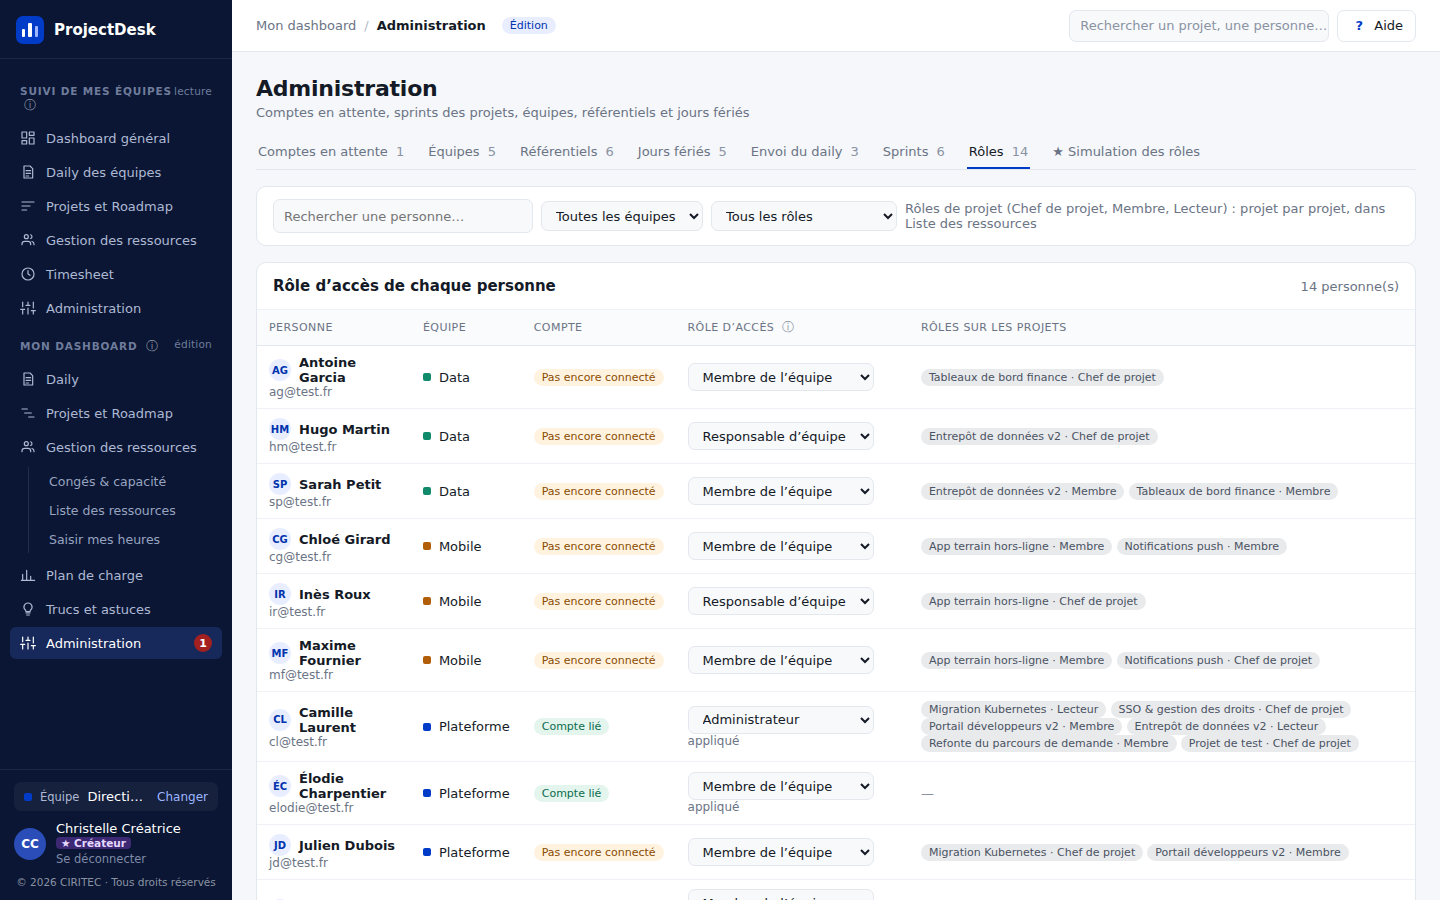
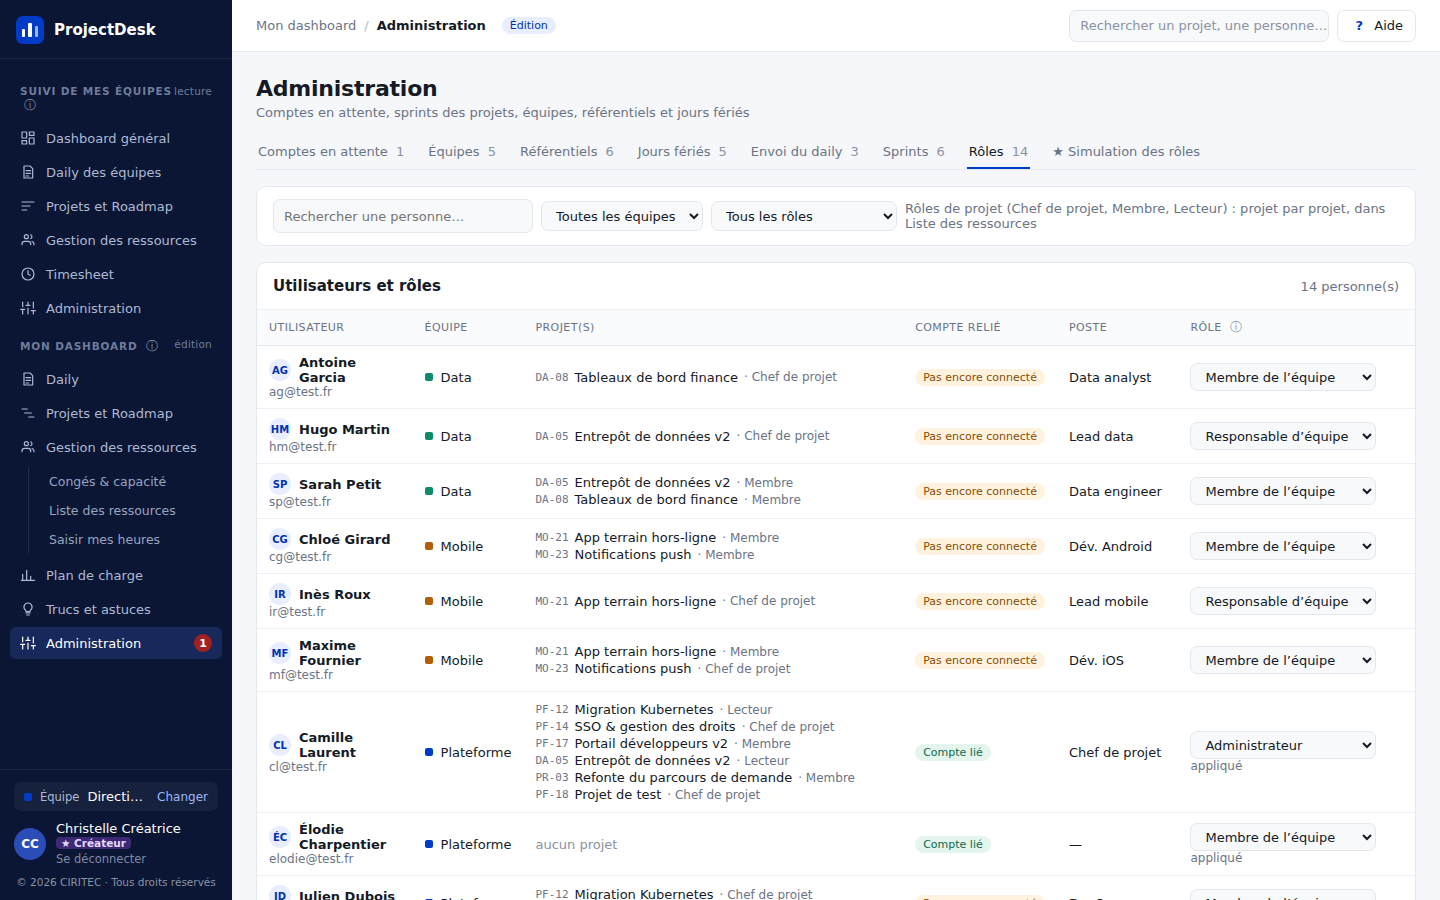
Administration › Rôles : tableau Utilisateurs et rôles (équipe, projets, compte relié, poste, rôle) — DAT 2.05
Claude-Session: https://claude.ai/code/session_0187v8SY8uiT6dnWqjjqJYb6

diff --git a/app/index.html b/app/index.html
@@ -11,7 +11,7 @@
 <link href="https://fonts.googleapis.com/css2?family=IBM+Plex+Sans:wght@400;500;600;700&family=IBM+Plex+Mono:wght@400;500&display=swap" rel="stylesheet">
 <!-- ?v= : version des fichiers (= version du DAT), à changer à chaque livraison : force le navigateur
      à recharger le code au lieu de réutiliser une ancienne copie en mémoire. -->
-<link rel="stylesheet" href="css/theme.css?v=2.04">
+<link rel="stylesheet" href="css/theme.css?v=2.05">
 </head>
 <body>
   <!-- Toute l'interface est dessinée dans #app par js/coquille.js et js/ecrans/*.js -->
@@ -19,33 +19,33 @@
   <div id="notification" class="notification" role="status"></div>
 
   <!-- Ordre de chargement : configuration, outils, état, puis écrans (qui s'enregistrent dans Ecrans) -->
-  <script src="js/config.js?v=2.04"></script>
-  <script src="js/api.js?v=2.04"></script>
-  <script src="js/calculs.js?v=2.04"></script>
-  <script src="js/etat.js?v=2.04"></script>
-  <script src="js/composants.js?v=2.04"></script>
-  <script src="js/coquille.js?v=2.04"></script>
-  <script src="js/panneau-projet.js?v=2.04"></script>
-  <script src="js/modale.js?v=2.04"></script>
-  <script src="js/excel.js?v=2.04"></script>
-  <script src="js/roles.js?v=2.04"></script>
-  <script src="js/simulation.js?v=2.04"></script>
-  <script src="js/ecrans/connexion.js?v=2.04"></script>
-  <script src="js/ecrans/choix-equipe.js?v=2.04"></script>
-  <script src="js/ecrans/dashboard.js?v=2.04"></script>
-  <script src="js/ecrans/projets.js?v=2.04"></script>
-  <script src="js/ecrans/ressources.js?v=2.04"></script>
-  <script src="js/ecrans/administration.js?v=2.04"></script>
-  <script src="js/ecrans/timesheet.js?v=2.04"></script>
-  <script src="js/ecrans/daily-equipes.js?v=2.04"></script>
-  <script src="js/ecrans/daily.js?v=2.04"></script>
-  <script src="js/ecrans/mes-projets.js?v=2.04"></script>
-  <script src="js/ecrans/conges.js?v=2.04"></script>
-  <script src="js/ecrans/capacite.js?v=2.04"></script>
-  <script src="js/ecrans/liste-ressources.js?v=2.04"></script>
-  <script src="js/ecrans/mon-timesheet.js?v=2.04"></script>
-  <script src="js/ecrans/previsionnel.js?v=2.04"></script>
-  <script src="js/ecrans/mon-admin.js?v=2.04"></script>
-  <script src="js/ecrans/astuces.js?v=2.04"></script>
+  <script src="js/config.js?v=2.05"></script>
+  <script src="js/api.js?v=2.05"></script>
+  <script src="js/calculs.js?v=2.05"></script>
+  <script src="js/etat.js?v=2.05"></script>
+  <script src="js/composants.js?v=2.05"></script>
+  <script src="js/coquille.js?v=2.05"></script>
+  <script src="js/panneau-projet.js?v=2.05"></script>
+  <script src="js/modale.js?v=2.05"></script>
+  <script src="js/excel.js?v=2.05"></script>
+  <script src="js/roles.js?v=2.05"></script>
+  <script src="js/simulation.js?v=2.05"></script>
+  <script src="js/ecrans/connexion.js?v=2.05"></script>
+  <script src="js/ecrans/choix-equipe.js?v=2.05"></script>
+  <script src="js/ecrans/dashboard.js?v=2.05"></script>
+  <script src="js/ecrans/projets.js?v=2.05"></script>
+  <script src="js/ecrans/ressources.js?v=2.05"></script>
+  <script src="js/ecrans/administration.js?v=2.05"></script>
+  <script src="js/ecrans/timesheet.js?v=2.05"></script>
+  <script src="js/ecrans/daily-equipes.js?v=2.05"></script>
+  <script src="js/ecrans/daily.js?v=2.05"></script>
+  <script src="js/ecrans/mes-projets.js?v=2.05"></script>
+  <script src="js/ecrans/conges.js?v=2.05"></script>
+  <script src="js/ecrans/capacite.js?v=2.05"></script>
+  <script src="js/ecrans/liste-ressources.js?v=2.05"></script>
+  <script src="js/ecrans/mon-timesheet.js?v=2.05"></script>
+  <script src="js/ecrans/previsionnel.js?v=2.05"></script>
+  <script src="js/ecrans/mon-admin.js?v=2.05"></script>
+  <script src="js/ecrans/astuces.js?v=2.05"></script>
 </body>
 </html>

diff --git a/app/js/roles.js b/app/js/roles.js
@@ -81,7 +81,15 @@ const Roles = {
     return estResponsableEquipe(r) ? 'responsable' : 'membre';
   },
 
-  // Ligne d'une personne : équipe, compte, rôle d'accès (liste), rôles sur les projets
+  // Projets d'une personne, un par ligne : code, nom et son rôle sur le projet
+  projetsDe(r) {
+    const esc = C.esc;
+    return affectationsDe(r.id).map(a => `<div class="ligne-flex projet-role">${C.code(projet(a.projetId).code)}${esc(projet(a.projetId).nom)}
+      <span class="discret texte-12">· ${esc(a.role)}</span></div>`).join('') || '<span class="pale">aucun projet</span>';
+  },
+
+  /* Ligne d'un utilisateur (maquette tableau-roles/, porteur 2026-10-13) : équipe, projets, compte relié,
+     poste (affiché ; il se modifie dans Liste des ressources) et rôle d'accès (liste, modifiable ici) */
   lignePersonne(r) {
     const esc = C.esc, prevu = rolePrevu(r);
     const compte = r.userId ? C.badgeTon('Compte lié', 'succes') : C.badgeTon('Pas encore connecté', 'attention');
@@ -91,10 +99,11 @@ const Roles = {
       <td><span class="ligne-flex">${C.avatar(r.nom)}<b>${esc(r.nom)}</b></span>
         <div class="discret texte-12">${esc(r.email || 'email à renseigner sur la fiche')}</div></td>
       <td><span class="ligne-flex">${C.pastille(equipe(r.equipeId).couleur)}${esc(equipe(r.equipeId).nom)}</span></td>
+      <td>${this.projetsDe(r)}</td>
       <td>${compte}</td>
+      <td>${esc(r.poste || '—')}</td>
       <td>${C.liste(options, this.roleChoisi(r), `class="champ champ-mini" data-action-change="affecterRole" data-id="${r.id}"`)}
-        ${effet ? `<div class="discret texte-12">${effet}</div>` : ''}</td>
-      <td>${badgesProjetsDe(r.id, '—')}</td></tr>`;
+        ${effet ? `<div class="discret texte-12">${effet}</div>` : ''}</td></tr>`;
   },
 
   // Cartes « par rôle » : qui a chaque rôle (créateur, administrateurs, responsables, rôles de projet, comptes en attente)
@@ -124,10 +133,10 @@ const Roles = {
       ${C.liste(equipes, u.equipe, 'class="champ champ-compact" data-action-change="filtreRoles" data-filtre="equipe"')}
       ${C.liste(roles, u.role, 'class="champ champ-compact" data-action-change="filtreRoles" data-filtre="role"')}`;
     return `${C.barreOutils(filtres, '<span class="discret">Rôles de projet (Chef de projet, Membre, Lecteur) : projet par projet, dans Liste des ressources</span>')}
-      <div class="carte"><div class="carte-titre"><h2>Rôle d’accès de chaque personne</h2><span class="discret">${personnes.length} personne(s)</span></div>
-        <div class="defilement-x"><table class="tableau tableau-roles-acces"><thead><tr><th>Personne</th><th>Équipe</th><th>Compte</th>
-          <th>Rôle d’accès ${C.aide('roleAcces')}</th><th>Rôles sur les projets</th></tr></thead>
-        <tbody>${personnes.map(r => this.lignePersonne(r)).join('') || `<tr><td colspan="5">${C.vide('Personne ne correspond aux filtres.')}</td></tr>`}</tbody>
+      <div class="carte"><div class="carte-titre"><h2>Utilisateurs et rôles</h2><span class="discret">${personnes.length} personne(s)</span></div>
+        <div class="defilement-x"><table class="tableau tableau-roles-acces"><thead><tr><th>Utilisateur</th><th>Équipe</th><th>Projet(s)</th>
+          <th>Compte relié</th><th>Poste</th><th>Rôle ${C.aide('roleAcces')}</th></tr></thead>
+        <tbody>${personnes.map(r => this.lignePersonne(r)).join('') || `<tr><td colspan="6">${C.vide('Personne ne correspond aux filtres.')}</td></tr>`}</tbody>
         </table></div></div>
       <div class="carte-titre" style="border:0;padding:4px 2px"><h2>Qui a quel rôle</h2><span class="discret">vue d’ensemble, rôles de projet compris</span></div>
       <div class="grille-roles">${this.cartesParRole()}</div>`;

diff --git a/tests/parcours.js b/tests/parcours.js
@@ -685,7 +685,12 @@ const verifier = (nom, condition, detail = '') => { resultats.push({ nom, ok: !!
     verifier('Créateur : onglet Rôles (rôle d’accès par personne, une carte par rôle)', await page.evaluate(() =>
       document.querySelectorAll('.grille-roles > .carte').length === Roles.LISTE.length
       && document.querySelector('.grille-roles').textContent.includes('Thomas Bernard')
-      && [...document.querySelectorAll('.tableau-roles-acces tbody tr')].some(tr => tr.textContent.includes('Thomas Bernard') && tr.querySelector('select'))));
+      && [...document.querySelectorAll('.tableau-roles-acces tbody tr')].some(tr => tr.textContent.includes('Thomas Bernard') && tr.querySelector('select'))
+      // Colonnes demandées (maquette tableau-roles) : utilisateur, équipe, projet(s), compte relié, poste, rôle
+      && [...document.querySelectorAll('.tableau-roles-acces thead th')].map(th => th.childNodes[0].textContent.trim()).join('|')
+        === 'Utilisateur|Équipe|Projet(s)|Compte relié|Poste|Rôle'
+      && [...document.querySelectorAll('.tableau-roles-acces tbody tr')].some(tr => tr.textContent.includes('Thomas Bernard')
+        && tr.textContent.includes(etat.d.ressources.find(r => r.nom === 'Thomas Bernard').poste) && tr.textContent.includes('Migration Kubernetes'))));
     await capture('27b-roles');
     // Simulation des rôles : en tant que Thomas (membre), lecture seule, changement de rôle, retour
     await aller('monAdmin'); await page.click('[data-action="ongletMonAdmin"][data-id="simulation"]'); await page.waitForTimeout(200);

diff --git a/app/css/theme.css b/app/css/theme.css
@@ -411,3 +411,6 @@ input.code-verification { height: 52px; text-align: center; font-size: 26px; fon
 /* Champs et boutons : liste déroulante compacte (en-têtes d'écran), bouton plein des écrans de connexion */
 select.champ-compact { width: auto; height: 30px; } select.champ-mini { width: auto; height: 28px; }
 .btn-connexion { height: 38px; justify-content: center; }
+
+/* Administration › Rôles : un projet par ligne dans la colonne Projet(s) (maquette tableau-roles/) */
+.projet-role { gap: 6px; padding: 1px 0; white-space: nowrap; }

diff --git a/docs/DAT.md b/docs/DAT.md
@@ -119,6 +119,7 @@
 | 2.02    | 2026-10-12 | **Nettoyage complet pour reprise par une équipe de développeurs** (porteur : « je veux une application propre ») — aucun changement d'écran (31 captures identiques au pixel près avant / après) ni de données. Code en double factorisé (`versConnexion`, `unitesRacines`, `codesProjetsDe`, `modifierSprint` dans `etat.js` ; `C.marque`, `C.compteSansFiche` ; colonnes communes de l'export du daily) ; 122 styles répétés remplacés par des classes (section « Utilitaires » de `theme.css`) ; couleurs en dur remplacées par la palette `COULEURS` / `TONS` (`config.js`) et `C.badgeTon` ; fonctions longues découpées en méthodes nommées (calendrier des absences, Capacité, Dashboard général, Plan de charge) ; commentaire sur chaque fonction de 10 lignes ou plus ; lignes ≤ 180 caractères (textes d'aide coupés, contenu identique) ; captures de test reproductibles (identifiants numérotés, notifications masquées). `scripts/audit-code.js` : nouveaux contrôles en erreur (longueurs, commentaires, doublons, couleurs, styles répétés, TODO) ; skill `revue-qualite` complété (§ 2.1, § 9, § 11) |
 | 2.03    | 2026-10-13 | **Affecter les rôles d'accès** (porteur : « il faut que l'administrateur puisse affecter un rôle aux utilisateurs » ; « les rôles se font dans Administration, les postes dans Liste des ressources » ; maquette `affecter-roles/`). Administration › **Rôles** ouvert à tous les administrateurs (auparavant ★ créateur) : une ligne par personne, rôle d'accès choisi dans une liste (Administrateur, Responsable d'équipe, Membre de l'équipe), filtres équipe / rôle / recherche, puis la vue « qui a quel rôle ». Fiche personne : rôle d'accès en lecture, lien vers Administration › Rôles ; fiche équipe : responsables en lecture. **Migration 029** (sauvegarde `sauvegarde-avant-029-2026-10-13`, données comptées avant / après, identiques) : table `roles_prevus`, fonctions `affecter_role`, `appliquer_role`, `appliquer_mes_roles_prevus` ; administrateurs nommés ou retirés par **tout administrateur** (décision du porteur). Personne non connectée, ou **email non vérifié** : rôle **prévu**, appliqué à sa connexion (sécurité : la fiche est reliée au compte par l'email). Responsables d'une équipe lus dans `responsables_equipe` (migration 027 de la branche `gestion-des-ressources`, déjà appliquée en base ; fichiers 027 et 028 ajoutés au dépôt) : `responsablesDe` (`etat.js`) (§ 2.1, § 3, § 4, § 5) |
 | 2.04    | 2026-10-13 | **Personnes proposées pour un projet : une seule liste** (porteur : « dans nouveau projet je ne peux affecter un chef de projet car les chefs de projet ne sont pas dans la liste ») : Nouveau projet et panneau projet ne proposaient que les personnes de l'équipe (et de sa direction) — liste vide pour une équipe sans personne (AMOA, IA) — alors que l'affectation proposait tout le monde. Désormais `personnesProposees` (`etat.js`, remplace `chefsPossibles`) partout : toutes les personnes présentes, celles de l'équipe d'abord, libellé « Nom — Équipe · Poste » (§ 3) |
+| 2.05    | 2026-10-13 | **Tableau « Utilisateurs et rôles »** (Administration › Rôles, administrateurs seulement ; maquette `tableau-roles/` validée par le porteur) : colonnes Utilisateur, Équipe, Projet(s) (un par ligne, avec le rôle sur le projet), Compte relié, **Poste** (affiché ; il se modifie dans Liste des ressources), **Rôle** (modifiable). La branche `gestion-des-ressources` est abandonnée (décision du porteur) ; la table `responsables_equipe` (migrations 027-028) reste utilisée (§ 3) |
 | 1.44    | 2026-09-27 | Calcul type Scrum : formule déplacée dans une pop-in (bouton « Comment est-ce calculé ? » en haut à droite), avec un exemple chiffré sur CDO (membres, jours ouvrés, absences, cérémonies, focus) (§ 2.1, § 3.3) |
 
 ---
@@ -237,7 +238,7 @@ Captures de l'application : `docs/maquettes/etat-actuel/` (générées par `test
 | `conges` | `conges.js` | Trois **onglets** : Grille mensuelle éditable (« pinceau » par type d'absence ; sélecteur **Par équipe** (chaque personne une seule fois sous son unité, responsable en tête, étiquettes de ses projets, puis synthèse « absents / membres » par projet) / **Par projet** (membres du projet choisi + sa synthèse) — maquettes `conges-sans-doublon/`, pistes 2 et 3), Récap annuel (reprise de l'onglet « Jours de congés » du porteur : par mois T = travaillés / C = congés (fériés exclus), totaux, **reste à prendre** = total travaillé − jours attendus par le client, objectif modifiable par équipe et par année — maquette `recap-jours-travailles.png`). Onglet **Capacité** (fichier `capacite.js`, objet `Capacite`, maquette `capacite-saisie/`) : projet (CDO par défaut) et sprint parmi **les sprints saisis du projet** (‹ ›, sprint en cours par défaut ; bouton « Sprints du projet » → Administration › Sprints ; maquette `sprints-projet/`) ; indicateurs disponible / engageable / vélocité moyenne / prévision ; capacité des membres (calculée) ; **vélocité** : points engagés et terminés **saisis** par sprint, say/do ; **répartition du sprint** : idéal par catégorie (calculé) et jours réels **saisis**, écart. Champs désactivés si le projet n'est pas modifiable. Bouton **« Méthode de calcul Scrum »** en haut à droite : pop-in des formules (`Modale.methodeCapacite`, maquette `capacite-scrum/`) | `11-conges.png` |
 | `listeRessources` | `liste-ressources.js` | Maquette `liste-ressources-ux/3-navigation-detail.png` (depuis 1.90). **Navigation à gauche** : les équipes (le niveau direction n'est pas affiché : les équipes d'une direction sont listées directement ; une direction reste listée si elle porte elle-même des projets ou des personnes, ou si elle est vide), sous chacune son responsable (`responsable_id`) et ses projets (nombre de personnes) ; recherche sur équipes, projets et personnes ; en bas **Postes** et **Types de contrat**. **Détail à droite** de l'élément choisi (`ui.listeRessources.choix`, défaut : équipe ouverte) — *équipe* : modifier / supprimer (unité vide seulement), carte du responsable (« Hors projet » s'il n'est affecté à aucun projet, « Comptée dans Congés & capacité »), tableau des projets (statut, Product Owners, membres ; clic → projet), **Membres de l'équipe** (toute l'équipe, avec ses projets « VISTA · PO ») et rappel de ce qu'ouvre chaque rôle d'accès, « + Projet », « + Personne » ; *projet* : indicateurs (Product Owners, membres, départs prévus), « Modifier le projet », **Product Owners** = affectations au rôle « Chef de projet » (+ chef de la fiche projet), plusieurs possibles, « + Ajouter un Product Owner » ; **Membres** (et lecteurs) avec rôle, « + Membre » ; *Postes / Types de contrat* : valeurs, nombre de ressources, statut, renommage (propagé aux fiches), suppression si inutilisée. Tableaux de personnes (depuis 1.93, maquette `role-acces/`) : sections **Actifs** et **Inactifs** repliables, poste, **Accès** (rôle d'accès : `roleAcces`), projets ou rôle sur le projet, **présence en clair** (`Calculs.libellePresence` : « depuis le … », « jusqu'au … », « partie le … »), statut **Inactif dès qu'une date de fin est saisie** (badge cliquable : rendre inactive / réactiver), lien Fiche (dates d'arrivée et de départ, **rôle d'accès**, ses projets). « + Ajouter une équipe » (administrateurs). Ouvert **sans équipe** pour un administrateur | `12-liste-ressources.png`, `18-postes.png` |
 | `monTimesheet` | `mon-timesheet.js` | Sous-menu **Gestion des ressources › Saisir mes heures** (rangé sous Gestion des ressources depuis 1.79) — saisie **mensuelle** (maquette `saisie-mensuelle/`) : une ligne par projet où je suis affecté (Chef de projet ou Membre), une colonne par jour de semaine du mois ; JF (férié), Abs (absence d'une journée), — (hors présence) non saisissables, demi-journée saisissable ; totaux par projet, par jour et du mois / attendu ; « Soumettre le mois » | `13-mon-timesheet.png` |
-| `monAdmin` | `mon-admin.js` | **Rôles** (tous les administrateurs depuis 2.03, `roles.js`, maquettes `liste-roles/` et `affecter-roles/`) : rôle d'accès de chaque personne (Administrateur, Responsable d'équipe, Membre de l'équipe) choisi dans une liste et enregistré aussitôt — rôle prévu si la personne n'est pas encore connectée ou n'a pas vérifié son email ; filtres équipe, rôle, recherche ; puis qui a quel rôle (cartes). **★ Simulation des rôles** (créateur seulement, `simulation.js`, maquette `simulation-roles/`, depuis 1.85) : voir l'application en tant qu'Administrateur, Responsable d'équipe, Chef de projet, Membre, Lecteur de projet ou Compte sans équipe, avec une personne réelle de ce rôle ; bandeau violet en haut de chaque écran (changer de rôle, revenir) ; lecture seule. **Comptes en attente** (administrateurs, maquette `comptes-en-attente/`, depuis 1.83) : inscrits sans équipe (`comptes_en_attente()`), choix de l'équipe, de la fiche ressource (fiche sans compte proposée si l'email ou le prénom correspond, ou « Créer sa fiche ») et du rôle (Membre / Admin d'équipe), « Donner l'accès » = email du compte posé sur la fiche (reliée à la connexion par `lier_ma_ressource`) + invitation dans l'équipe, « Ignorer » (`comptes_ignores`) ; pastille rouge sur le menu Administration. **Envoi du daily** (une ligne par **projet en cours**, depuis 1.73 ; réglable par administrateur, chef du projet ou responsable de son unité — mode, heure, jours, sauf fériés, destinataires ; « Configurer le flux » Power Automate, fenêtre `Modale.envoiPowerAutomate`) ; **Sprints** (sprints de chaque projet : Sprint n°, année, version, début, fin ; affichage par année) ; **Équipes** (créer / modifier, membres, invitations — administrateurs et responsables) ; **Référentiels** et **Jours fériés** (administrateurs : ajout, date, libellé, suppression, par année). Ouvert sans équipe pour un administrateur. (Demandes entrantes et formulaire de demande retirés le 2026-10-05 : gérés dans Azure DevOps.) | `14-mon-admin.png`, `26-comptes-en-attente.png`, `27b-roles.png`, `28-simulation-roles.png`, `29-simulation-en-cours.png` |
+| `monAdmin` | `mon-admin.js` | **Rôles** (tous les administrateurs depuis 2.03, `roles.js`, maquettes `liste-roles/`, `affecter-roles/` et `tableau-roles/`) : tableau « Utilisateurs et rôles » (utilisateur, équipe, projets avec le rôle sur chacun, compte relié, poste, rôle) ; rôle d'accès de chaque personne (Administrateur, Responsable d'équipe, Membre de l'équipe) choisi dans une liste et enregistré aussitôt — rôle prévu si la personne n'est pas encore connectée ou n'a pas vérifié son email ; filtres équipe, rôle, recherche ; puis qui a quel rôle (cartes). **★ Simulation des rôles** (créateur seulement, `simulation.js`, maquette `simulation-roles/`, depuis 1.85) : voir l'application en tant qu'Administrateur, Responsable d'équipe, Chef de projet, Membre, Lecteur de projet ou Compte sans équipe, avec une personne réelle de ce rôle ; bandeau violet en haut de chaque écran (changer de rôle, revenir) ; lecture seule. **Comptes en attente** (administrateurs, maquette `comptes-en-attente/`, depuis 1.83) : inscrits sans équipe (`comptes_en_attente()`), choix de l'équipe, de la fiche ressource (fiche sans compte proposée si l'email ou le prénom correspond, ou « Créer sa fiche ») et du rôle (Membre / Admin d'équipe), « Donner l'accès » = email du compte posé sur la fiche (reliée à la connexion par `lier_ma_ressource`) + invitation dans l'équipe, « Ignorer » (`comptes_ignores`) ; pastille rouge sur le menu Administration. **Envoi du daily** (une ligne par **projet en cours**, depuis 1.73 ; réglable par administrateur, chef du projet ou responsable de son unité — mode, heure, jours, sauf fériés, destinataires ; « Configurer le flux » Power Automate, fenêtre `Modale.envoiPowerAutomate`) ; **Sprints** (sprints de chaque projet : Sprint n°, année, version, début, fin ; affichage par année) ; **Équipes** (créer / modifier, membres, invitations — administrateurs et responsables) ; **Référentiels** et **Jours fériés** (administrateurs : ajout, date, libellé, suppression, par année). Ouvert sans équipe pour un administrateur. (Demandes entrantes et formulaire de demande retirés le 2026-10-05 : gérés dans Azure DevOps.) | `14-mon-admin.png`, `26-comptes-en-attente.png`, `27b-roles.png`, `28-simulation-roles.png`, `29-simulation-en-cours.png` |
 | `previsionnel` | `previsionnel.js` | **Plan de charge** (maquette `previsionnel-temps/`) — menu visible des **chefs de projet** (fiche « chef » ou affectation « Chef de projet ») et des administrateurs. Choix d'une personne affectée (hors Lecteur) à un projet que je pilote (moi par défaut). Onglet **Prévisionnel** : 12 mois (‹ › décale d'un mois), lignes jours ouvrés (hors fériés), congés (Congés & capacité), jours travaillés, disponibles si capacité < 100 %, puis par projet en cours de la personne : % du temps (`previsions_temps`) et ses types de tâche avec % cible (`types_tache_projet` : libellé modifiable, ajout, suppression), sous-total « Total hors US » si le projet a un type « US », contrôle Σ = 100 % ; unité jours ou heures (× `HEURES_PAR_JOUR`). Les % ne sont modifiables que sur les projets que je pilote (lecture sinon). Onglet **Temps réel par sprint** : sprints datés d'un projet de la personne (CDO par défaut), capacité du sprint (`Calculs.heuresAttenduesJours`), par projet heures prévues (capacité × %), heures saisies (Saisir mes heures), jours, % réel, écart en points, consommé / prévu | `23-previsionnel.png`, `24-previsionnel-reel.png` |
 | `astuces` | `astuces.js` | **Trucs et astuces** (menu à part de Mon dashboard depuis le 2026-10-05, auparavant onglet d'Administration). Deux boutons de thème (depuis 1.97, maquette `astuces-agile-roadmap/`) : **Agile** (onglets KPI Agile et Rôles Scrum) et **Roadmap** (fiche pratique en lecture seule : définition, chaîne vision → objectifs → roadmap → backlog → sprint, trois formats de roadmap, format conseillé selon la méthode du projet, bonnes pratiques et pièges ; textes `ROADMAP_ASTUCES`, `config.js`). Onglet KPI Agile : KPI Agile Scrum et Kanban de `KPI_AGILE`, avec un exemple chiffré par KPI calculé sur un projet choisi, CDO par défaut — « réel » si les données existent, sinon « illustratif » ; lecture seule. Onglet **Rôles Scrum (organigramme)** (maquette `organigramme-scrum/`) : organigramme détaillé — sponsor / direction métier et parties prenantes ; équipe Scrum avec Product Ownership partagé entre **PO fonctionnel** et **PO technique** (backlog unique co-priorisé) et Scrum Master transverse ; équipe de développement : **tech lead**, développeurs, **QA / testeurs**, UX/UI et DevOps si besoin ; chaque carte : mission, responsabilités, liens clés, cérémonies ; puis tableau « qui fait quoi » (● responsable, ○ contribue). Textes : `ROLES_SCRUM`, `FAMILLES_ROLES_SCRUM`, `QUI_FAIT_QUOI_SCRUM` (`config.js`) | `19-astuces.png`, `19b-astuces-roadmap.png`, `25-roles-scrum.png` |
 
